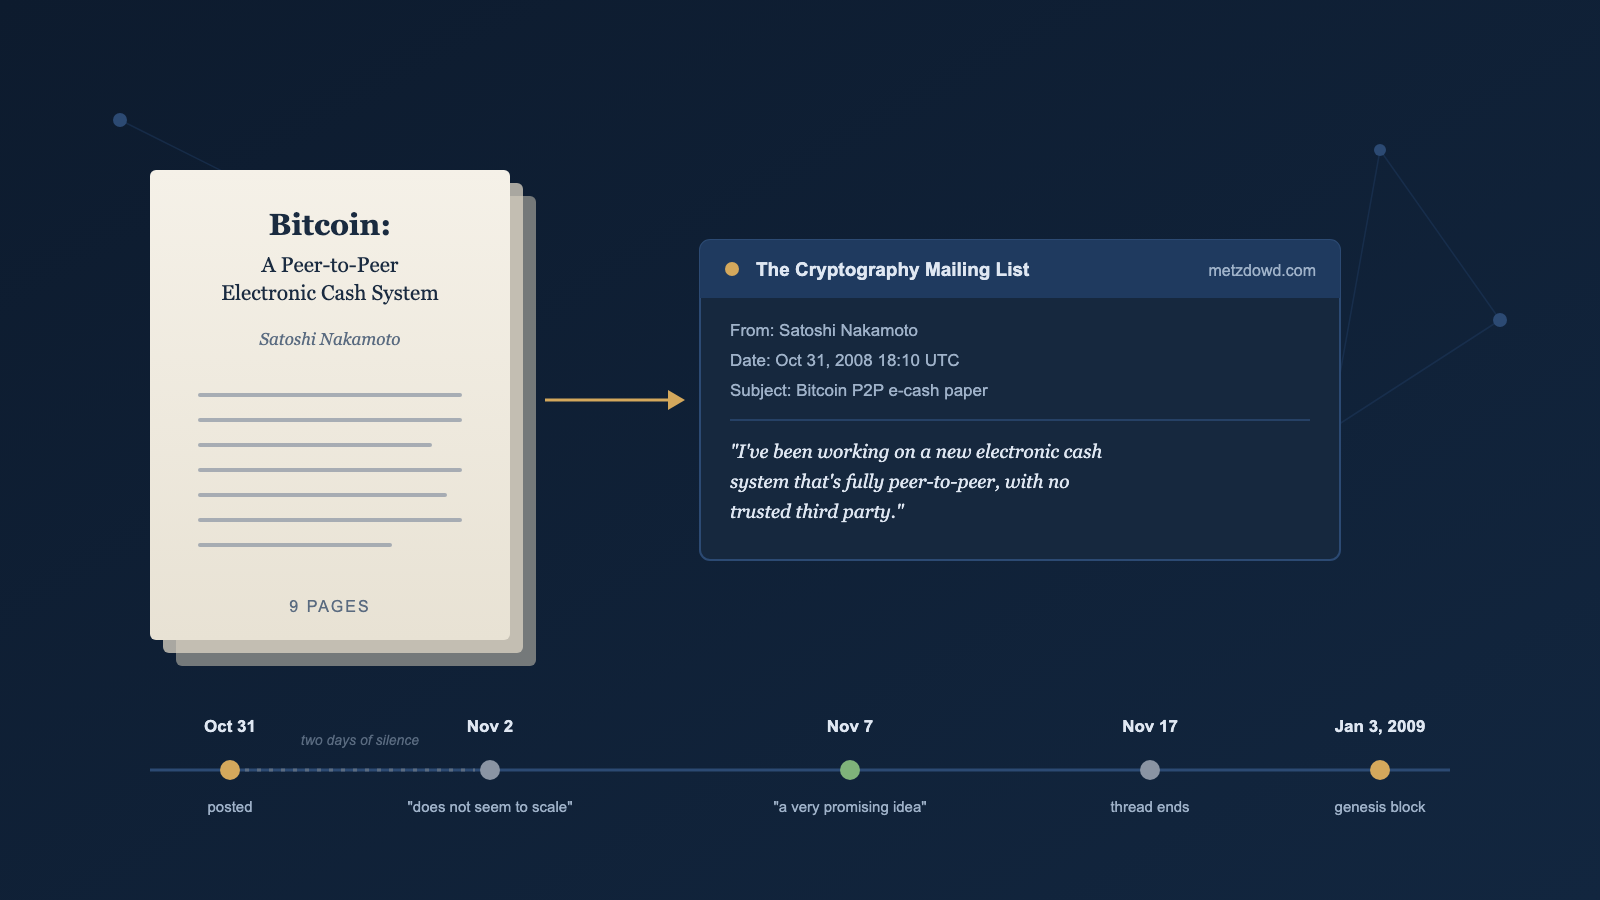
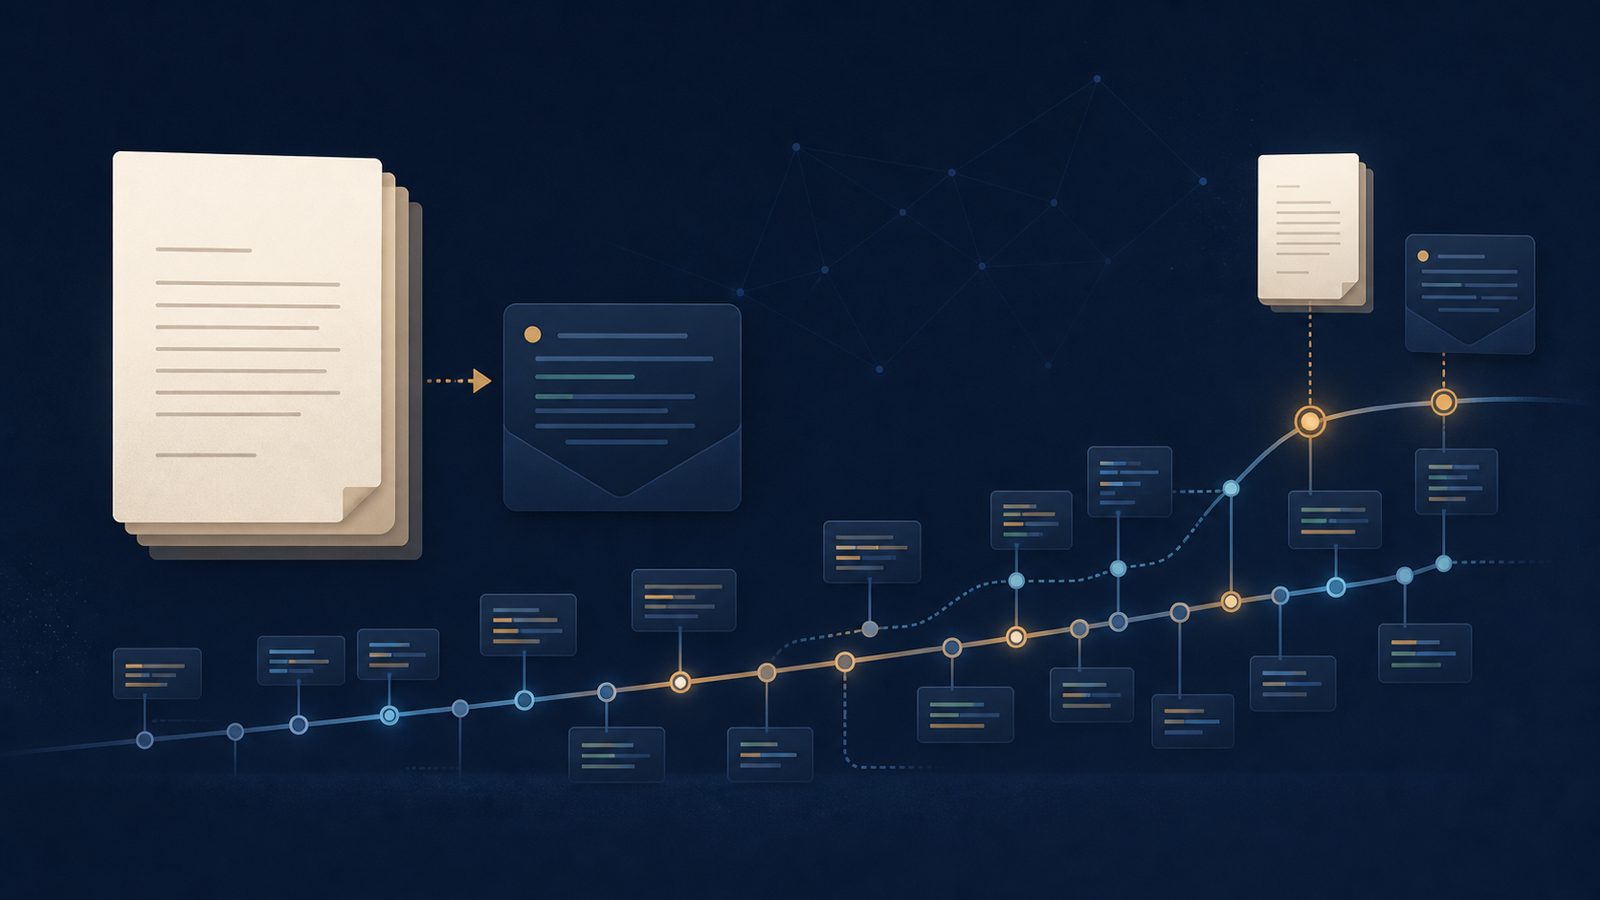
Rewrite whitepaper-publication page around the 18-month coding history
Retitle and reopen the Oct 31 2008 entry around Satoshi's own Nov 17
account of 18 months of prior coding, instead of the reception-silence
framing. Regenerate the hero image and timeline data to match, and
cross-link the Nov 17 email, the Windows dev-environment analysis, and
the Jan 2011 Hearn exchange bidirectionally.

diff --git a/src/data/translations/ja/aftermath/2008-10-31-bitcoin-whitepaper-publication.md b/src/data/translations/ja/aftermath/2008-10-31-bitcoin-whitepaper-publication.md
@@ -1,5 +1,5 @@
 ---
-title: "サトシがビットコインホワイトペーパーを公開、二日間の沈黙"
+title: "サトシがビットコインホワイトペーパーを公開 ― 1年半のコーディングを経て"
 date: 2008-10-31T18:10:00Z
 type: "article"
 source: "cryptography-mailing-list"
@@ -8,7 +8,7 @@ author: "Satoshi Nakamoto"
 participants:
   - name: "Satoshi Nakamoto"
     slug: "satoshi-nakamoto"
-description: "2008 年 10 月 31 日、九ページの論文が暗号学メーリングリストに投稿された。返信は二日間なく、最初の反応は懐疑だった。ビットコインが世界に現れた瞬間の記録。"
+description: "2008 年 10 月 31 日、九ページの論文が投稿された。すでに 1 年半かけて動くシステムの報告だった。反応はまず沈黙、次にスケールへの疑いだった。"
 isSatoshi: true
 tags:
   - "announcement"
@@ -29,8 +29,12 @@ relatedEntries:
   - emails/cryptography/bitcoin-p2p-e-cash-paper/2008-11-01-re-bitcoin-p2p-e-cash-paper-donald
   - emails/cryptography/bitcoin-p2p-e-cash-paper/2008-11-07-re-bitcoin-p2p-e-cash-paper-finney
   - emails/cryptography/bitcoin-p2p-e-cash-paper/2008-11-10-re-bitcoin-p2p-e-cash-paper-satoshi-finney
+  - emails/cryptography/bitcoin-p2p-e-cash-paper/2008-11-17-bitcoin-p2p-e-cash-paper
   - emails/cryptography/2008-10-03-bitcoin-whitepaper-draft
   - analysis/2008-10-31-bitcoin-design-lineage
+  - analysis/2009-01-09-satoshi-windows-development-environment
+  - correspondence/mike-hearn/more-questions/2011-01-10-satoshi-to-hearn-secp256k1
+  - analysis/2026-08-23-did-bitcoin-overturn-money
 quotes:
   - id: "q1"
     person: "Satoshi Nakamoto"
@@ -55,7 +59,7 @@ quotes:
 translationStatus: complete
 ---
 
-![「Bitcoin: A Peer-to-Peer Electronic Cash System」と題された九ページの文書と、2008 年 10 月 31 日付のメーリングリスト投稿パネルが並び、その下に二日間の無反応から懐疑的な最初の返信、好意的な返信へと続く受容の時系列が描かれている。](/BitcoinArchive/images/analysis/2008-10-31-bitcoin-whitepaper-publication-hero.png)
+![積み重なった原稿の束がメーリングリストの投稿アイコンへつながり、その下には小さなコードブロック風のカードが並ぶ時系列が右肩上がりに伸びている。初期の開発時点から 2008 年 10 月 31 日の投稿を経て、もう一組の原稿と投稿アイコンへ至り、告知の裏にあったコーディングの歴史を描いている。](/BitcoinArchive/images/analysis/2008-10-31-bitcoin-whitepaper-publication-hero.png)
 
 ビットコインが最初に公の記録へ現れたとき、動くネットワークではなく、九ページの PDF と身元不明の名前だった。2008 年 10 月 31 日金曜日、18 時 10 分 (UTC)、その投稿が metzdowd.com の暗号学メーリングリストに届いた：
 
@@ -88,6 +92,9 @@ translationStatus: complete
 ```mermaid
 timeline
     title 告知とその受容
+    2007 : コーディング開始、 後年の本人発言から 逆算 (半ば頃)
+         : 「コーディングしながら この1年半」
+    %% link: /BitcoinArchive/ja/entries/emails/cryptography/bitcoin-p2p-e-cash-paper/2008-11-17-bitcoin-p2p-e-cash-paper/
     2008 : 暗号学メーリングリストに 論文を投稿 (10月31日)
     %% link: /BitcoinArchive/ja/entries/emails/cryptography/bitcoin-p2p-e-cash-paper/2008-10-31-bitcoin-p2p-e-cash-paper/
          : 最初の返信は スケールへの疑い (11月2日)
@@ -95,15 +102,15 @@ timeline
          : フィニーが 有望なアイデアと評価 (11月7日)
     %% link: /BitcoinArchive/ja/entries/emails/cryptography/bitcoin-p2p-e-cash-paper/2008-11-07-re-bitcoin-p2p-e-cash-paper-finney/
          : コードが先だったと サトシが開示 (11月9日)
-         : スレッドは結論なく終わる (11月17日)
+         : サトシが1年半の コーディング期間を 明かし、 スレッドは終わる (11月17日)
     2009 : ジェネシスブロック生成 (1月3日)
     %% link: /BitcoinArchive/ja/entries/aftermath/2009-01-03-genesis-block/
 ```
 
-スレッドは 11 月 17 日まで続き、懐疑派が転向しないまま止まった。本アーカイブが保存する全 24 通は、すべての反論とすべての答えを含めて、[スレッド表示](/BitcoinArchive/ja/entries/threads/emails/cryptography/bitcoin-p2p-e-cash-paper/)で順に読める。告知から九週間後、サトシは[ジェネシスブロックを生成し](/BitcoinArchive/ja/entries/aftermath/2009-01-03-genesis-block/)、九ページが記述したシステムは文書であることをやめた。
+11 月 17 日、ドナルドへの返信でサトシはコードの時間軸を明かした。「[コーディングしながらこの 1年半で](/BitcoinArchive/ja/entries/emails/cryptography/bitcoin-p2p-e-cash-paper/2008-11-17-bitcoin-p2p-e-cash-paper/)それらの細かい詳細をすべて検討してきたと思うが、多くの詳細があった」。2 か月後、[そのコードは 19,901 行の v0.1.0 としてリリースされた](/BitcoinArchive/ja/entries/analysis/2009-01-09-satoshi-code-analysis/)。この規模には、インベントリ配信やブロック伝播をめぐるこのスレッド自体のやり取りも、その間にいくらか影響した可能性がある。同じ準備期間を、サトシは後により広い範囲で語り直している。2011 年にマイク・ハーンへ、[「このプロジェクトはリリースまでに 2 年の開発期間があった」](/BitcoinArchive/ja/entries/correspondence/mike-hearn/more-questions/2011-01-10-satoshi-to-hearn-secp256k1/)と伝えており、この「2 年」には、実際にコードを書き始める前に問題を考えていた期間も含まれる ― その経緯は、[サトシの Windows 専用開発環境についての分析](/BitcoinArchive/ja/entries/analysis/2009-01-09-satoshi-windows-development-environment/)が詳しく追っている。そこでスレッドは止まり、懐疑派は転向しないままだった。本アーカイブが保存する全 24 通は、すべての反論とすべての答えを含めて、[スレッド表示](/BitcoinArchive/ja/entries/threads/emails/cryptography/bitcoin-p2p-e-cash-paper/)で順に読める。告知から九週間後、サトシは[ジェネシスブロックを生成し](/BitcoinArchive/ja/entries/aftermath/2009-01-03-genesis-block/)、九ページが記述したシステムは文書であることをやめた。
 
 *[補足：2008 年 10 月 31 日の投稿は、小説『[ジェネシス ― 創設者の消失と約束](/BitcoinArchive/ja/novel/)』の物語が始まる瞬間として描かれる。金融危機の只中に主人公が世界へ放ったこの九ページを、小説は「数千年続いた通貨の概念を、根底から覆すことになる」プロトコルの記録として語る。]*
 
 <!-- entry-closing -->
 
-最初の公開記録には、二つの事実が重なっている。動くシステムが論文として提示されたこと。そして、その論文がまず二日間の沈黙に、次にスケールへの疑いに迎えられたことだ。このスレッドが残すのは完成した勝利ではない。疑いのなかへ入った設計が、そこで立ち続けなければならなくなった瞬間である。
+リストが読んだのは未検証の提案に見えた。だが読まれた時点で、それはすでにコードのなかで決着がついていた事実だった。二日間の沈黙、続くスケールへの疑い ― それはこのアイデアが機能するかどうかの判定ではない。サトシはすでに一年半かけて、一人でそれを確かめ終えていた。懐疑的な読者たちが、すでに下されていた決断に追いついていく音。この沈黙と疑いの正体は、それだった。

diff --git a/src/data/entries/en/aftermath/2008-10-31-bitcoin-whitepaper-publication.md b/src/data/entries/en/aftermath/2008-10-31-bitcoin-whitepaper-publication.md
@@ -1,5 +1,5 @@
 ---
-title: "Satoshi posts the Bitcoin whitepaper — two days of silence"
+title: "Satoshi posts the Bitcoin whitepaper — 18 months of code already behind it"
 date: 2008-10-31T18:10:00Z
 type: "article"
 source: "cryptography-mailing-list"
@@ -8,7 +8,7 @@ author: "Satoshi Nakamoto"
 participants:
   - name: "Satoshi Nakamoto"
     slug: "satoshi-nakamoto"
-description: "Nine pages posted to a mailing list on October 31, 2008, met with two days of silence and then doubts about scale. The record of Bitcoin's first public appearance and the few experts who engaged."
+description: "Nine pages posted to a mailing list on October 31, 2008 — already the report of an 18-month-old, working system. Met first by silence, then by doubts about scale."
 isSatoshi: true
 tags:
   - "announcement"
@@ -29,8 +29,12 @@ relatedEntries:
   - emails/cryptography/bitcoin-p2p-e-cash-paper/2008-11-01-re-bitcoin-p2p-e-cash-paper-donald
   - emails/cryptography/bitcoin-p2p-e-cash-paper/2008-11-07-re-bitcoin-p2p-e-cash-paper-finney
   - emails/cryptography/bitcoin-p2p-e-cash-paper/2008-11-10-re-bitcoin-p2p-e-cash-paper-satoshi-finney
+  - emails/cryptography/bitcoin-p2p-e-cash-paper/2008-11-17-bitcoin-p2p-e-cash-paper
   - emails/cryptography/2008-10-03-bitcoin-whitepaper-draft
   - analysis/2008-10-31-bitcoin-design-lineage
+  - analysis/2009-01-09-satoshi-windows-development-environment
+  - correspondence/mike-hearn/more-questions/2011-01-10-satoshi-to-hearn-secp256k1
+  - analysis/2026-08-23-did-bitcoin-overturn-money
 quotes:
   - id: "q1"
     person: "Satoshi Nakamoto"
@@ -54,7 +58,7 @@ quotes:
     sourceEntryId: "emails/cryptography/bitcoin-p2p-e-cash-paper/2008-11-10-re-bitcoin-p2p-e-cash-paper-satoshi-finney"
 ---
 
-![A nine-page document titled "Bitcoin: A Peer-to-Peer Electronic Cash System" beside a mailing-list message panel dated Oct 31, 2008, with a reception timeline below running from two days of no replies through a skeptical first response to a supportive one.](/BitcoinArchive/images/analysis/2008-10-31-bitcoin-whitepaper-publication-hero.png)
+![A stack of manuscript pages connects to a mailing-list message icon; below, a rising timeline of small code-block cards stretches from an early development point through the October 31, 2008 posting and onward to a second paper-and-message pair, visualizing the coding history behind the announcement.](/BitcoinArchive/images/analysis/2008-10-31-bitcoin-whitepaper-publication-hero.png)
 
 Bitcoin first appeared publicly as a nine-page PDF and an unknown name, not as a running network. On Friday, October 31, 2008, at 18:10 UTC, that message landed on the cryptography mailing list at metzdowd.com:
 
@@ -87,6 +91,9 @@ The nine pages were a report, not a proposal. Satoshi first wrote the code, conf
 ```mermaid
 timeline
     title The announcement and its reception
+    2007 : Coding begins, by Satoshi's own later account (mid-2007)
+         : "the last year and a half while coding it"
+    %% link: /BitcoinArchive/entries/emails/cryptography/bitcoin-p2p-e-cash-paper/2008-11-17-bitcoin-p2p-e-cash-paper/
     2008 : Whitepaper posted to the cryptography list (Oct 31)
     %% link: /BitcoinArchive/entries/emails/cryptography/bitcoin-p2p-e-cash-paper/2008-10-31-bitcoin-p2p-e-cash-paper/
          : First reply doubts the scale (Nov 2)
@@ -94,15 +101,15 @@ timeline
          : Finney calls it a very promising idea (Nov 7)
     %% link: /BitcoinArchive/entries/emails/cryptography/bitcoin-p2p-e-cash-paper/2008-11-07-re-bitcoin-p2p-e-cash-paper-finney/
          : Satoshi discloses the code came first (Nov 9)
-         : Thread ends without conclusion (Nov 17)
+         : Satoshi names the 18-month coding span; thread ends (Nov 17)
     2009 : Genesis block mined (Jan 3)
     %% link: /BitcoinArchive/entries/aftermath/2009-01-03-genesis-block/
 ```
 
-The thread ran to November 17 and then stopped, with the skeptics unconverted. All 24 messages this archive holds from it — every objection, every answer — can be read in sequence in [the thread view](/BitcoinArchive/entries/threads/emails/cryptography/bitcoin-p2p-e-cash-paper/). Nine weeks after the announcement, Satoshi [mined the genesis block](/BitcoinArchive/entries/aftermath/2009-01-03-genesis-block/), and the system the nine pages described stopped being a document.
+On November 17, replying to Donald, Satoshi located the code in time: "I believe I've worked through all those little details over [the last year and a half while coding it](/BitcoinArchive/entries/emails/cryptography/bitcoin-p2p-e-cash-paper/2008-11-17-bitcoin-p2p-e-cash-paper/), and there were a lot of them." Two months later, [that code shipped as v0.1.0 at 19,901 lines](/BitcoinArchive/entries/analysis/2009-01-09-satoshi-code-analysis/) — a size the thread's own back-and-forth over inventory broadcast and block propagation may well have helped shape in the interval. Satoshi would later describe the same pre-release work at a wider scope, [telling Mike Hearn in 2011 that "this project was 2 years of development before release"](/BitcoinArchive/entries/correspondence/mike-hearn/more-questions/2011-01-10-satoshi-to-hearn-secp256k1/) — the retrospective figure folding in the months spent thinking through the problem before any code existed at all, [as this archive's fuller reading of Satoshi's Windows-only development environment traces in detail](/BitcoinArchive/entries/analysis/2009-01-09-satoshi-windows-development-environment/). Then the thread stopped, with the skeptics unconverted. All 24 messages this archive holds from it — every objection, every answer — can be read in sequence in [the thread view](/BitcoinArchive/entries/threads/emails/cryptography/bitcoin-p2p-e-cash-paper/). Nine weeks after the announcement, Satoshi [mined the genesis block](/BitcoinArchive/entries/aftermath/2009-01-03-genesis-block/), and the system the nine pages described stopped being a document.
 
 *[Context: The October 31, 2008 posting is the inciting moment of the novel [*Genesis: The Disappearance of the Founder and the Promise*](/BitcoinArchive/novel/) — the nine pages the protagonist releases into the middle of a financial crisis, carrying what the novel calls the protocol that would overturn, at its root, a concept of money thousands of years old.]*
 
 <!-- entry-closing -->
 
-The first public appearance therefore carries two records at once: a working system presented as a paper, and a paper met first by silence, then by the scaling objection it would spend its history answering. The thread does not show a finished victory; it shows the moment a design entered a skeptical audience and had to remain standing there.
+What the list read as an untested proposal was, by the time they read it, already a settled fact of code. The two days of silence and the scaling objection that followed were never a verdict on whether the idea could work — Satoshi had already spent a year and a half finding that out alone. They were the sound of a skeptical audience catching up to a decision that had already been made.

diff --git a/src/data/translations/ja/analysis/2009-01-09-satoshi-windows-development-environment.md b/src/data/translations/ja/analysis/2009-01-09-satoshi-windows-development-environment.md
@@ -48,6 +48,8 @@ relatedEntries:
   - analysis/2008-10-31-satoshi-identity-hypotheses-overview
   - design/2009-01-03-bitcoin-architecture-evolution
   - aftermath/2024-10-28-jeff-garzik-satoshi-lone-genius
+  - aftermath/2008-10-31-bitcoin-whitepaper-publication
+  - correspondence/mike-hearn/more-questions/2011-01-10-satoshi-to-hearn-secp256k1
 inlineLinkKeywords:
   - "利用者として能動、貢献者として受動"
 translationStatus: complete

diff --git a/src/data/entries/en/analysis/2009-01-09-satoshi-windows-development-environment.md b/src/data/entries/en/analysis/2009-01-09-satoshi-windows-development-environment.md
@@ -48,6 +48,8 @@ relatedEntries:
   - analysis/2008-10-31-satoshi-identity-hypotheses-overview
   - design/2009-01-03-bitcoin-architecture-evolution
   - aftermath/2024-10-28-jeff-garzik-satoshi-lone-genius
+  - aftermath/2008-10-31-bitcoin-whitepaper-publication
+  - correspondence/mike-hearn/more-questions/2011-01-10-satoshi-to-hearn-secp256k1
 inlineLinkKeywords:
   - "consumer-active, contributor-passive"
 translationStatus: complete

diff --git a/src/data/translations/ja/correspondence/mike-hearn/more-questions/2011-01-10-satoshi-to-hearn-secp256k1.md b/src/data/translations/ja/correspondence/mike-hearn/more-questions/2011-01-10-satoshi-to-hearn-secp256k1.md
@@ -29,6 +29,10 @@ quotes:
     personSlug: "mike-hearn"
     date: "2011-01-10T16:48:00Z"
     sourceEntryId: "correspondence/mike-hearn/more-questions/2011-01-10-hearn-to-satoshi-secp256k1"
+relatedEntries:
+  - aftermath/2008-10-31-bitcoin-whitepaper-publication
+  - analysis/2009-01-09-satoshi-windows-development-environment
+  - analysis/2008-08-20-satoshi-self-statements
 ---
 
 <!-- speaker: Mike Hearn -->

diff --git a/src/data/entries/en/correspondence/mike-hearn/more-questions/2011-01-10-satoshi-to-hearn-secp256k1.md b/src/data/entries/en/correspondence/mike-hearn/more-questions/2011-01-10-satoshi-to-hearn-secp256k1.md
@@ -28,6 +28,10 @@ quotes:
     personSlug: "mike-hearn"
     date: "2011-01-10T16:48:00Z"
     sourceEntryId: "correspondence/mike-hearn/more-questions/2011-01-10-hearn-to-satoshi-secp256k1"
+relatedEntries:
+  - aftermath/2008-10-31-bitcoin-whitepaper-publication
+  - analysis/2009-01-09-satoshi-windows-development-environment
+  - analysis/2008-08-20-satoshi-self-statements
 ---
 
 <!-- quote: q1 -->

diff --git a/src/data/entries/en/analysis/2008-08-20-satoshi-self-statements.md b/src/data/entries/en/analysis/2008-08-20-satoshi-self-statements.md
@@ -56,6 +56,7 @@ relatedEntries:
   - aftermath/2009-07-22-bitcoin-exchange-proposal
   - aftermath/2026-04-22-finding-satoshi-finney-sassaman-documentary
   - aftermath/2024-10-28-jeff-garzik-satoshi-lone-genius
+  - correspondence/mike-hearn/more-questions/2011-01-10-satoshi-to-hearn-secp256k1
 inlineLinkKeywords:
   - "Satoshi's self-statements"
   - "self-statements inventory"

diff --git a/src/data/translations/ja/analysis/2008-08-20-satoshi-self-statements.md b/src/data/translations/ja/analysis/2008-08-20-satoshi-self-statements.md
@@ -56,6 +56,7 @@ relatedEntries:
   - aftermath/2009-07-22-bitcoin-exchange-proposal
   - aftermath/2026-04-22-finding-satoshi-finney-sassaman-documentary
   - aftermath/2024-10-28-jeff-garzik-satoshi-lone-genius
+  - correspondence/mike-hearn/more-questions/2011-01-10-satoshi-to-hearn-secp256k1
 inlineLinkKeywords:
   - "サトシの自己言及"
   - "サトシ自身の言葉"

diff --git a/src/data/translations/ja/emails/cryptography/bitcoin-p2p-e-cash-paper/2008-11-17-bitcoin-p2p-e-cash-paper.md b/src/data/translations/ja/emails/cryptography/bitcoin-p2p-e-cash-paper/2008-11-17-bitcoin-p2p-e-cash-paper.md
@@ -30,6 +30,7 @@ quotes:
 relatedEntries:
   - "analysis/2008-10-31-cypherpunk-independent-arrival"
   - "analysis/2008-08-20-satoshi-self-statements"
+  - "aftermath/2008-10-31-bitcoin-whitepaper-publication"
 ---
 
 <!-- speaker: James A. Donald -->

diff --git a/src/data/entries/en/emails/cryptography/bitcoin-p2p-e-cash-paper/2008-11-17-bitcoin-p2p-e-cash-paper.md b/src/data/entries/en/emails/cryptography/bitcoin-p2p-e-cash-paper/2008-11-17-bitcoin-p2p-e-cash-paper.md
@@ -29,6 +29,7 @@ quotes:
 relatedEntries:
   - "analysis/2008-10-31-cypherpunk-independent-arrival"
   - "analysis/2008-08-20-satoshi-self-statements"
+  - "aftermath/2008-10-31-bitcoin-whitepaper-publication"
 ---
 
 <!-- quote: q1 -->
